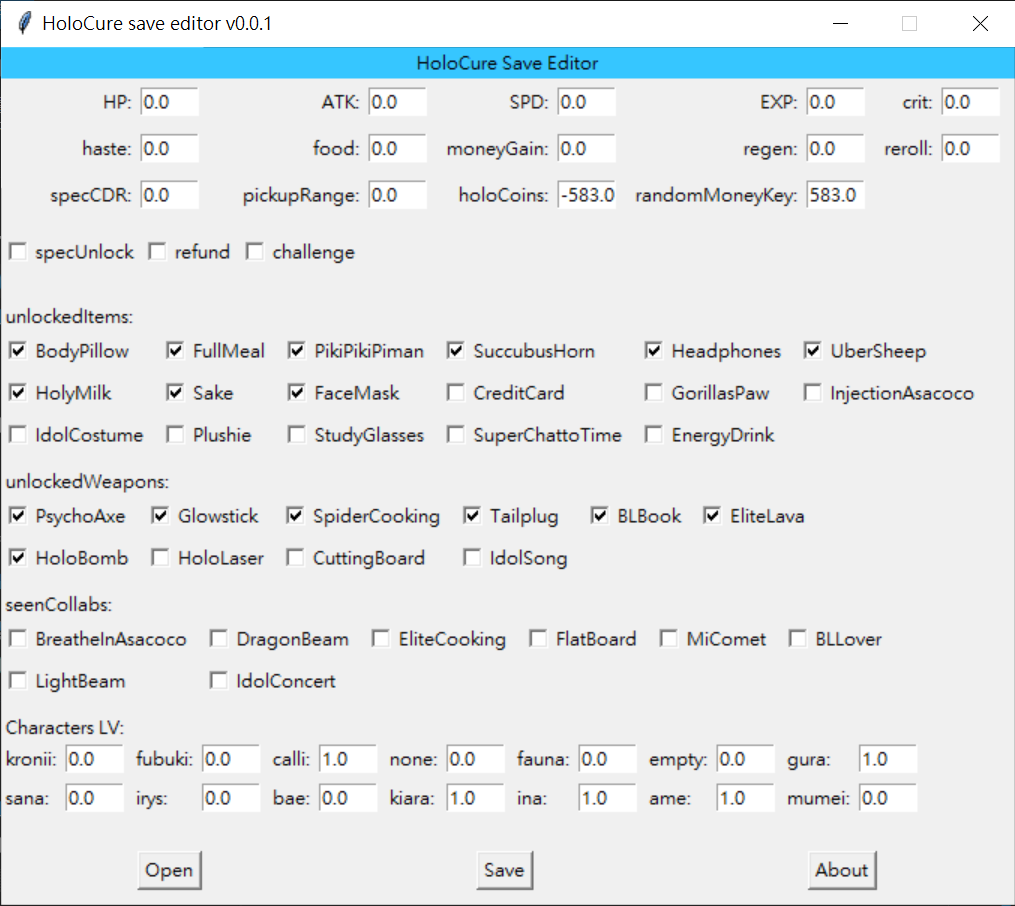
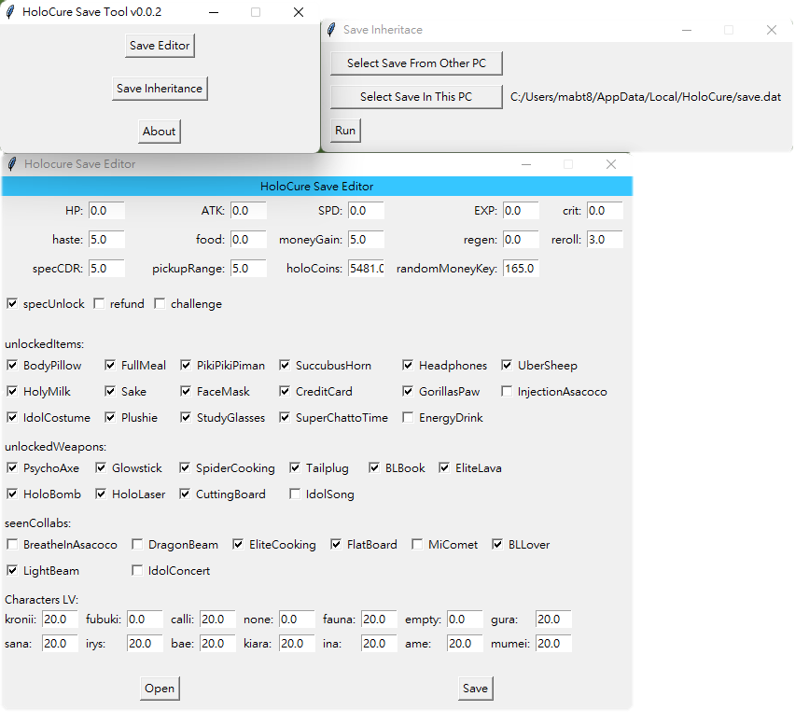
Change Project Name into Holocure Save Tool     - Add Save Inheritance function     - Update README

Changed region(s): [[0.0, 0.0, 1.0, 1.0], [0.7849, 0.6798, 0.8755, 0.7107]]

diff --git a/holocure_save_tool.py b/holocure_save_tool.py
@@ -1,9 +1,13 @@
-ABOUT_MSG='''HoloCure bad bad Save Editor
-Version: 0.0.1
-Date: 2022/06/29
+ABOUT_MSG='''HoloCure bad bad Save Tool
+Version: 0.0.2
+Date: 2022/07/02
 Author: Aclich
 Require: python > 3.6, tkinter
 Source code: https://github.com/aclich/Holocure_save_editor
+
+Change Log:
+ - Error message popout
+ - Save Inheritance tool
 
 Tested Game version
 0.3.1656491913
@@ -14,7 +18,7 @@ import json, base64, pathlib, os
 import tkinter as tk
 from tkinter import CENTER, DISABLED, messagebox
 from tkinter.filedialog import askopenfilename, asksaveasfilename
-from typing import List
+from typing import List, Tuple
 
 KEYS = ['HP', 'ATK', 'SPD', 'EXP', 'crit', 'haste',
         'food', 'moneyGain','regen', 'reroll', 'specCDR',
@@ -35,34 +39,64 @@ LIST_MAP = {'unlockedItems': ['BodyPillow', 'FullMeal', 'PikiPikiPiman', 'Succub
             'seenCollabs': ['BreatheInAsacoco', 'DragonBeam', 'EliteCooking', 'FlatBoard',
                             'MiComet', 'BLLover', 'LightBeam', 'IdolConcert']}
 
+GEOMETRY='+700+300'
+_init_path = os.path.join(pathlib.Path.home(),'AppData', 'Local', 'HoloCure')
+InitPath = _init_path if os.path.isdir(_init_path) else pathlib.Path.home()
 PopError = lambda e: messagebox.showerror(title=f'{e.__class__.__name__}', message=f'{e}')
+AskSavePath = lambda init_path=InitPath: askopenfilename(title='select save data',
+                                                initialdir=init_path,
+                                                filetypes=[['.dat save', '*.dat']])
 
 class SaveEditor(object):
-    def __init__(self, file_path: str) -> None:
-        self.load_file(file_path)
+    def __init__(self) -> None:
+        pass
 
-    def load_file(self, file_path):
-        _data = open(file_path, 'r').read()
-        self._decrypt_str = ''.join([chr(b) for b in base64.decodebytes(_data.encode())])
-        _trunc_point = self._decrypt_str.find('{ "')
-        self._trunc_point = self._decrypt_str.find('{"') if _trunc_point == -1 else _trunc_point
+    def load_file(self, file_path: str) -> Tuple[str, int, dict]:
+        self._decrypt_str = ''.join([chr(b) for b in base64.decodebytes(open(file_path, 'rb').read())])
+        self._trunc_point = self._decrypt_str.find('{"') if self._decrypt_str.find('{ "') == -1 else self._decrypt_str.find('{ "')
         self.save_js = json.loads(self._decrypt_str[self._trunc_point:-1])
-        print(self.save_js)
+        return self._decrypt_str, self._trunc_point, self.save_js
 
-    def save_file(self, file_path):
+    def save_file(self, file_path: str):
         out_str = f"{self._decrypt_str[:self._trunc_point]}{json.dumps(self.save_js)}{self._decrypt_str[-1]}"
-        out_en = bytes([ord(s) for s in out_str])
-        open(file_path, 'w+').write(base64.encodebytes(out_en).decode().replace('\n', ''))
-        
+        out_byt = bytes([ord(s) for s in out_str])
+        open(file_path, 'w+').write(base64.encodebytes(out_byt).decode().replace('\n', ''))
+
+    def inerit_save(self, orig_path: str, curr_path: str):
+        _, _, orig_save_js = self.load_file(orig_path)
+        self._decrypt_str, self._trunc_point, _ = self.load_file(curr_path)
+        self.save_js = orig_save_js
+        self.save_file(curr_path)
 
 class mainApp(tk.Tk):
     def __init__(self):
         super().__init__()
-        self.title('HoloCure save editor v0.0.1')
+        self.title('HoloCure Save Tool v0.0.2')
         self.resizable(0, 0)
-        self._open_save()
+        self.geometry(GEOMETRY)
         self._create_component()
         self._layout()
+
+    def _create_component(self):
+        self.editor_btn = tk.Button(self, text="Save Editor", command=lambda: editorPage(self))
+        self.inherit_btn = tk.Button(self, text="Save Inheritance", command=lambda: saveInheritPage(self))
+        self.about_btn = tk.Button(self, text='About', justify=CENTER, 
+                                   command=lambda: aboutpop(self))
+
+    def _layout(self):
+        for btn in (self.editor_btn, self.inherit_btn, self.about_btn):
+            btn.pack(padx=120, pady=(10, 10))
+
+class editorPage(tk.Toplevel):
+    def __init__(self, mainapp:mainApp):
+        super().__init__(mainapp)
+        self.title('Holocure Save Editor')
+        self.geometry(GEOMETRY)
+        self.resizable(0, 0)
+        self.editor = SaveEditor()
+        self._open_save()
+        self.withdraw()
+        self.deiconify()
 
     def _create_component(self):
         self.mskframe = miskFrame(self)
@@ -74,34 +108,27 @@ class mainApp(tk.Tk):
         self.frames: List[tk.Frame] = [self.mskframe, *self.chkframes, self.charaframe]
         self.open_btn = tk.Button(self, text='Open', justify=CENTER, command=self._open_save)
         self.save_btn = tk.Button(self, text='Save', justify=CENTER, command=self._save_as)
-        self.about_btn = tk.Button(self, text='About', justify=CENTER, 
-                                   command=lambda: aboutpop(self))
 
     def _layout(self):
-        t_col = 3
+        t_col = 2
         self.mskframe.grid(column=0, columnspan=t_col, row=0, sticky='news', pady=(0,10))
         for i, frame in enumerate(self.chkframes, 1):
             frame.grid(column=0, columnspan=t_col, row=i, sticky='news', pady=(0,5))
         self.charaframe.grid(column=0, columnspan=t_col, row=4, sticky='nwes', pady=(0,10))
         self.open_btn.grid(column=0, row=5)
         self.save_btn.grid(column=1, row=5, pady=10)
-        self.about_btn.grid(column=2, row=5, pady=10)
 
     def _open_save(self):
         try:
-            _init_path = os.path.join(pathlib.Path.home(),'AppData', 'Local', 'HoloCure')
-            self._init_path = _init_path if os.path.isdir(_init_path) else pathlib.Path.home()
-            self.file_path = askopenfilename(title='select save data',
-                                            initialdir=_init_path,
-                                            filetypes=[['.dat save', '*.dat']])
+            self.file_path = AskSavePath()
             if self.file_path == '':
                 return
-            self.editor = SaveEditor(self.file_path)
+            self.editor.load_file(self.file_path)
             if hasattr(self, 'mskframe'):
                 for frame in self.frames:
                     frame.destroy()
-                self._create_component()
-                self._layout()
+            self._create_component()
+            self._layout()
 
         except Exception as e:
             PopError(e)
@@ -109,7 +136,7 @@ class mainApp(tk.Tk):
     def _save_as(self):
         try:
             save_file_path = asksaveasfilename(defaultextension='.dat',
-                                        initialdir=self._init_path,
+                                        initialdir=os.path.dirname(os.path.abspath(self.file_path)),
                                         initialfile='save.dat',
                                         filetypes=[['.dat save', '*.dat']])
             #misk data
@@ -137,17 +164,17 @@ class mainApp(tk.Tk):
             PopError(e)
 
 class miskFrame(tk.Frame):
-    def __init__(self, mainapp: mainApp, **kwargs):
-        super().__init__(mainapp, **kwargs)
-        self.mainapp = mainapp
-        self.vcmd = (self.mainapp.register(self._valid_num), '%P')
+    def __init__(self, parent: editorPage, **kwargs):
+        super().__init__(parent, **kwargs)
+        self.parent = parent
+        self.vcmd = (self.register(self._valid_num), '%P')
         self._create_component()
         self._layout()
 
     def _create_component(self):
         self.title_label = tk.Label(self, text='HoloCure Save Editor', justify=CENTER, bg='#36C6FF')
 
-        self.var_map = {k: tk.IntVar(value=self.mainapp.editor.save_js[k])
+        self.var_map = {k: tk.IntVar(value=self.parent.editor.save_js[k])
                         for k in [*NUMB_KEYS, *CHK_KEYS]}
         self.lb_map = {k: tk.Label(self, text=f'{k}: ') for k in NUMB_KEYS}
         self.en_map = {k: tk.Entry(self, textvariable=self.var_map[k],
@@ -183,7 +210,7 @@ class miskFrame(tk.Frame):
         return False
 
 class unlockFrame(tk.Frame):
-    def __init__(self, parent: mainApp, key_name:str, **kwargs):
+    def __init__(self, parent: editorPage, key_name:str, **kwargs):
         super().__init__(parent, **kwargs)
         self.key_name = key_name
         self.parent = parent
@@ -209,10 +236,10 @@ class unlockFrame(tk.Frame):
                 row += 1
 
 class charaFrame(tk.Frame):
-    def __init__(self, mainapp:mainApp, **kwargs):
-        super().__init__(mainapp, **kwargs)
-        self.mainapp = mainapp
-        self.chr_list: list = self.mainapp.editor.save_js['characters']
+    def __init__(self, parent:editorPage, **kwargs):
+        super().__init__(parent, **kwargs)
+        self.parent = parent
+        self.chr_list: list = self.parent.editor.save_js['characters']
         self._create_component()
         self._layout()
 
@@ -235,10 +262,63 @@ class charaFrame(tk.Frame):
                 col = 0
                 row += 1
 
+class saveInheritPage(tk.Toplevel):
+    def __init__(self, mainapp:mainApp):
+        super().__init__(mainapp)
+        self.title('Save Inheritace')
+        self.geometry(GEOMETRY)
+        self.resizable(0, 0)
+        self.editor = SaveEditor()
+        self._create_component()
+        self._layout()
+    
+    def _create_component(self):
+        self.var_map = {k: tk.StringVar(value=v)
+                        for k, v in {'orig': '',
+                                     'curr': os.path.join(InitPath, 'save.dat').replace('\\', '/')
+                                     }.items()
+                        }
+        self.lb_map = {k: tk.Label(self, textvariable=self.var_map[k]) for k in {'orig', 'curr'}}
+        self.open_orig_btn = tk.Button(self, text='Select Save From Other PC',
+                                       command=self._select_orig_save, width=25)
+        self.open_curr_btn = tk.Button(self, text='Select Save In This PC',
+                                       command=self._select_curr_save, width=25)
+        self.inherit_btn = tk.Button(self, text='Run', command=self._run_inherit)
+        self.btn_map = {
+            'orig': self.open_orig_btn,
+            'curr': self.open_curr_btn
+        }
+
+    def _layout(self):
+        for i, k in enumerate(('orig','curr')):
+            self.btn_map[k].grid(column=0, row=i, sticky='nsw', pady=(10,0), padx=(10,0))
+            self.lb_map[k].grid(column=1, row=i, sticky='nsw', pady=(10,0), padx=(5,10))
+        self.inherit_btn.grid(column=0, row=2, sticky='nsw', pady=(10,10), padx=10)
+
+    def _select_orig_save(self):
+        self.var_map['orig'].set(AskSavePath())
+        self.deiconify()
+    
+    def _select_curr_save(self):
+        self.var_map['curr'].set(AskSavePath())
+        self.deiconify()
+
+    def _run_inherit(self):
+        try:
+            _orig_save = self.var_map['orig'].get()
+            _curr_save = self.var_map['curr'].get()
+            self.editor.inerit_save(_orig_save, _curr_save)
+            messagebox.showinfo(title='Inheritence success', message=f'Success!\nRaw data:\n{self.editor.save_js}')
+        except Exception as e:
+            PopError(e)
+        self.deiconify()
+        
+
 class aboutpop(tk.Toplevel):
     def __init__(self, mainapp):
         super().__init__(mainapp)
         self.title('About')
+        self.geometry(GEOMETRY)
         self.resizable(0, 0)
         self._create_component()
         self._layout()
@@ -256,8 +336,6 @@ class aboutpop(tk.Toplevel):
 if __name__ == "__main__":
     try:
         mainapp = mainApp()
-        mainapp.withdraw()
-        mainapp.deiconify()
         mainapp.mainloop()
     except Exception as e:
         if mainapp.file_path:

diff --git a/README.md b/README.md
@@ -1,19 +1,29 @@
-# Holocure Save Editor
-A simple save editor for Holocure fan game  
-Download: https://github.com/aclich/Holocure_save_editor/releases/download/v0.0.1/HoloCure_Save_Editor_v0.0.1.zip  
-Support editing:  
-- Holocoin
-- Shop items
-- Charactor gacha level
-- Lock, Unlock items/weapons/collabs
-  
-<img width=500 src='./screenshot.png'/>
+# Holocure Save Tool
+A simple save Tool for Holocure fan game.  
+Download (exe): https://github.com/aclich/Holocure_save_editor/releases/download/v0.0.2/HoloCure_Save_Tool_v0.0.2.zip  
+## Feature:
+#### Save editing:
+  - Holocoin
+  - Shop items
+  - Charactor gacha level
+  - Lock, Unlock items/weapons/collabs
+
+#### Save Inheritance:
+  - Help player Inherit save from other PC to current PC.  
+
+#### Screenshot:
+<img width=550 src='./screenshot.png'/>
 
 ##  How to Use (exe)
-1. Select the save file (Default path: 'C:\\Users\\<user_name>\\AppData\\Local\\HoloCure\\save.dat')
-2. Change the data in editor
-3. Save the data and replace the original save file (please manually backup the original save file)
-
+0. Select which tool to use `(editor or Inheritance tool)`
+- Editor:
+  1. Select the save file (Default path: 'C:\\Users\\<user_name>\\AppData\\Local\\HoloCure\\save.dat')
+  2. Change the data in editor
+  3. Save the data and replace the original save file (please manually backup the original save file)
+- Inheritance Tool:
+    1. Select save from other PC (Or the save you want to inheritance)
+    2. Select save in current PC (Already selected in default, make sure the save file exists. If not, run the game first.)
+    3. Click Run.
 
 ## Run from source code
 ### Requirements
